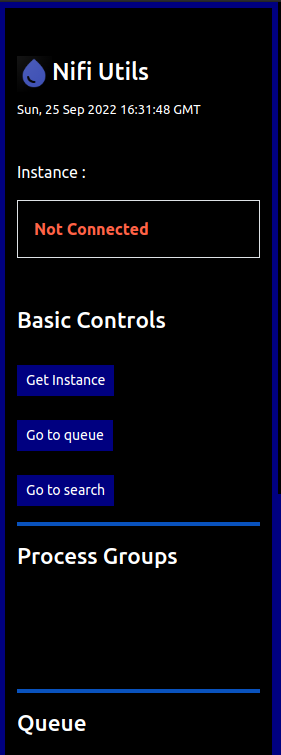
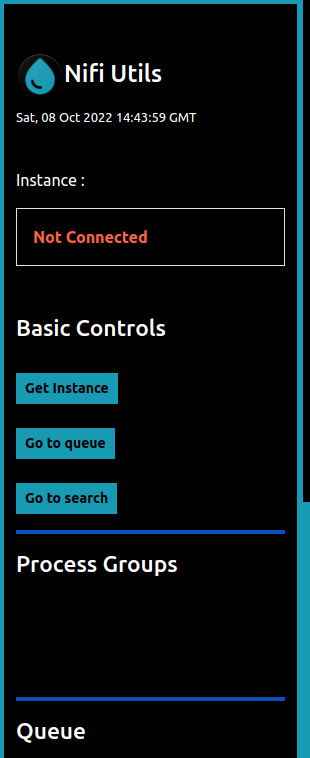
Fixed the existing issues and changed the color scheme back to original.

Changed region(s): [[0.0, 0.0, 1.0, 1.0], [0.0569, 0.0609, 0.7117, 0.1828]]

diff --git a/src/js/utils.js b/src/js/utils.js
@@ -214,7 +214,7 @@ function setProcessGroupResult(store_object) {
     var resultString = "";
     resultString += `<p style="color:#4CAAB8;"><b style="color:aqua;font-size:16px;">${store_object["instance_fetched_from"]}&nbsp;|&nbsp;<span><a style="text-decoration:none;color:tomato;" href="https://${store_object["instance_fetched_from"]}/nifi/?processGroupId=${store_object["parent_pg_id"]}" target="_blank">${store_object["parent_pg_name"]}</a></span></b><br>${store_object["fetched_time"]}</p>`;
     resultString += `<br><input class="form-control form-control-sm w-auto" type="text" id="processGroupsResultSearch" placeholder="Search process group name"><br><br>`;
-    resultString += `<table class="table table-sm table-responsive table-bordered table-dark table-hover" id="processGroupsResultTable">`;
+    resultString += `<table class="table table-sm table-responsive table-bordered table-dark table-hover table-striped" id="processGroupsResultTable">`;
     resultString += `<tr class="table-info"><th>&nbsp;&nbsp;&nbsp;</th>`;
     resultString += `<th>No</th>`;
     resultString += `<th>Process Group</th>`;
@@ -231,9 +231,9 @@ function setProcessGroupResult(store_object) {
         resultString += `<tr>`;
         resultString += `<td><button id="add-to-queue" class="btn btn-sm btn-primary" style="margin:10px;">+</button></td>`;
         resultString += `<td>${row_index}</td>`;
-        resultString += `<td title="${element["pg_id"]}" id="process_group_name"><div>
+        resultString += `<td><div title="${element["pg_id"]}" id="process_group_name">
             ${element["pg_name"]}<br><br>
-            <span style="color:wheat;">Link :</span>
+            <span ">Link :</span>
             <a style="text-decoration:none; color:tomato;" title="${store_object["instance_fetched_from"]}" href="https://${store_object["instance_fetched_from"]}/nifi/?processGroupId=${element["pg_id"]}" target="_blank">Open</a><br><br>
             </div></td>`;
         resultString += `<td>${element["running"]}</td>`;
@@ -285,7 +285,7 @@ document.body.addEventListener("click", (event) => {
         });
         var row = event.target.parentNode.parentNode.childNodes;
         var index = parseInt(row[1].textContent);
-        event.target.parentNode.parentNode.style.backgroundColor = "#888";
+        event.target.parentNode.parentNode.className = "table-secondary";
         chrome.storage.local.get(["queue_data_store"], (item) => {
             var itemValue = item["queue_data_store"];
             if (itemValue != null && itemValue != undefined) {
@@ -323,7 +323,7 @@ document.body.addEventListener("click", (event) => {
 function setQueueTable(store_object) {
 
     var resultString = "";
-    resultString += `<table class="table table-sm table-responsive table-bordered table-dark table-hover" id="QueueTable">`;
+    resultString += `<table class="table table-sm table-responsive table-bordered table-dark table-hover table-striped" id="QueueTable">`;
     resultString += `<tr class="table-info"><th>&nbsp;&nbsp;&nbsp;</th>`;
     resultString += `<th>&nbsp;&nbsp;&nbsp;</th>`;
     resultString += `<th>PG Name</th>`;
@@ -529,7 +529,7 @@ function setSearchTable(store_object) {
 
     var resultString = "";
     resultString += `<p class="p">Search results for <span style="color:#4CAAB8;"><b>${store_object["search_keyword"]}</b></span> in the instance <span style="color:#4CAAB8;"><b>${store_object["hostname"]}</b></span> :</p>`;
-    resultString += `<table class="table table-sm table-responsive table-bordered table-dark table-hover" id="SearchTable">`;
+    resultString += `<table class="table table-sm table-responsive table-bordered table-dark table-hover table-striped" id="SearchTable">`;
     resultString += `<tr class="table-info"><th>No</th>`;
     resultString += `<th>Search Results</th></tr>`;
 

diff --git a/src/css/custom_styles.css b/src/css/custom_styles.css
@@ -1,6 +1,6 @@
 html {
     scroll-behavior: smooth;
-    border: 6px solid navy;
+    border: 6px solid #189AB4;
 }
 
 body {
@@ -10,10 +10,11 @@ body {
 }
 
 .btn-primary {
-    background-color: navy;
-    border: 1px solid navy;
+    background-color: #189AB4;
+    border: 1px solid #189AB4;
     border-radius: 0%;
-
+    color: black;
+    font-weight: 600;
 }
 
 .table-secondary
@@ -23,7 +24,7 @@ body {
 
 .bg-navy {
     color: white;
-    background-color: navy;
+    background-color: #189AB4;
 }
 
 .bg-green {
@@ -121,7 +122,7 @@ body {
 
 /* Track */
 ::-webkit-scrollbar-track {
-    background: navy;
+    background: #189AB4;
 }
 
 /* Handle */

diff --git a/src/views/about.html b/src/views/about.html
@@ -21,7 +21,7 @@
         </div>&nbsp;&nbsp;&nbsp;&nbsp;
         <div style="background-color:ghostwhite; margin-left: auto; padding: 10px;display: inline-block;">
             <h3 style="color:sienna;">Tested On :</h3>
-            <p>Chrome 103<br></p>
+            <p>Chrome 103+<br></p>
         </div>&nbsp;&nbsp;&nbsp;&nbsp;
         <div style="background-color:mistyrose; margin-left: auto; padding: 10px;display: inline-block;">
             <h3 style="color:sienna;">Works on :</h3>

diff --git a/src/css/options.css b/src/css/options.css
@@ -6,8 +6,9 @@ body {
 }
 
 .btn-primary {
-    background-color: navy;
-    border: 1px solid navy;
+    background-color: #189AB4;
+    border: 1px solid #189AB4;
     border-radius: 0%;
+    color: black;
 
 }
